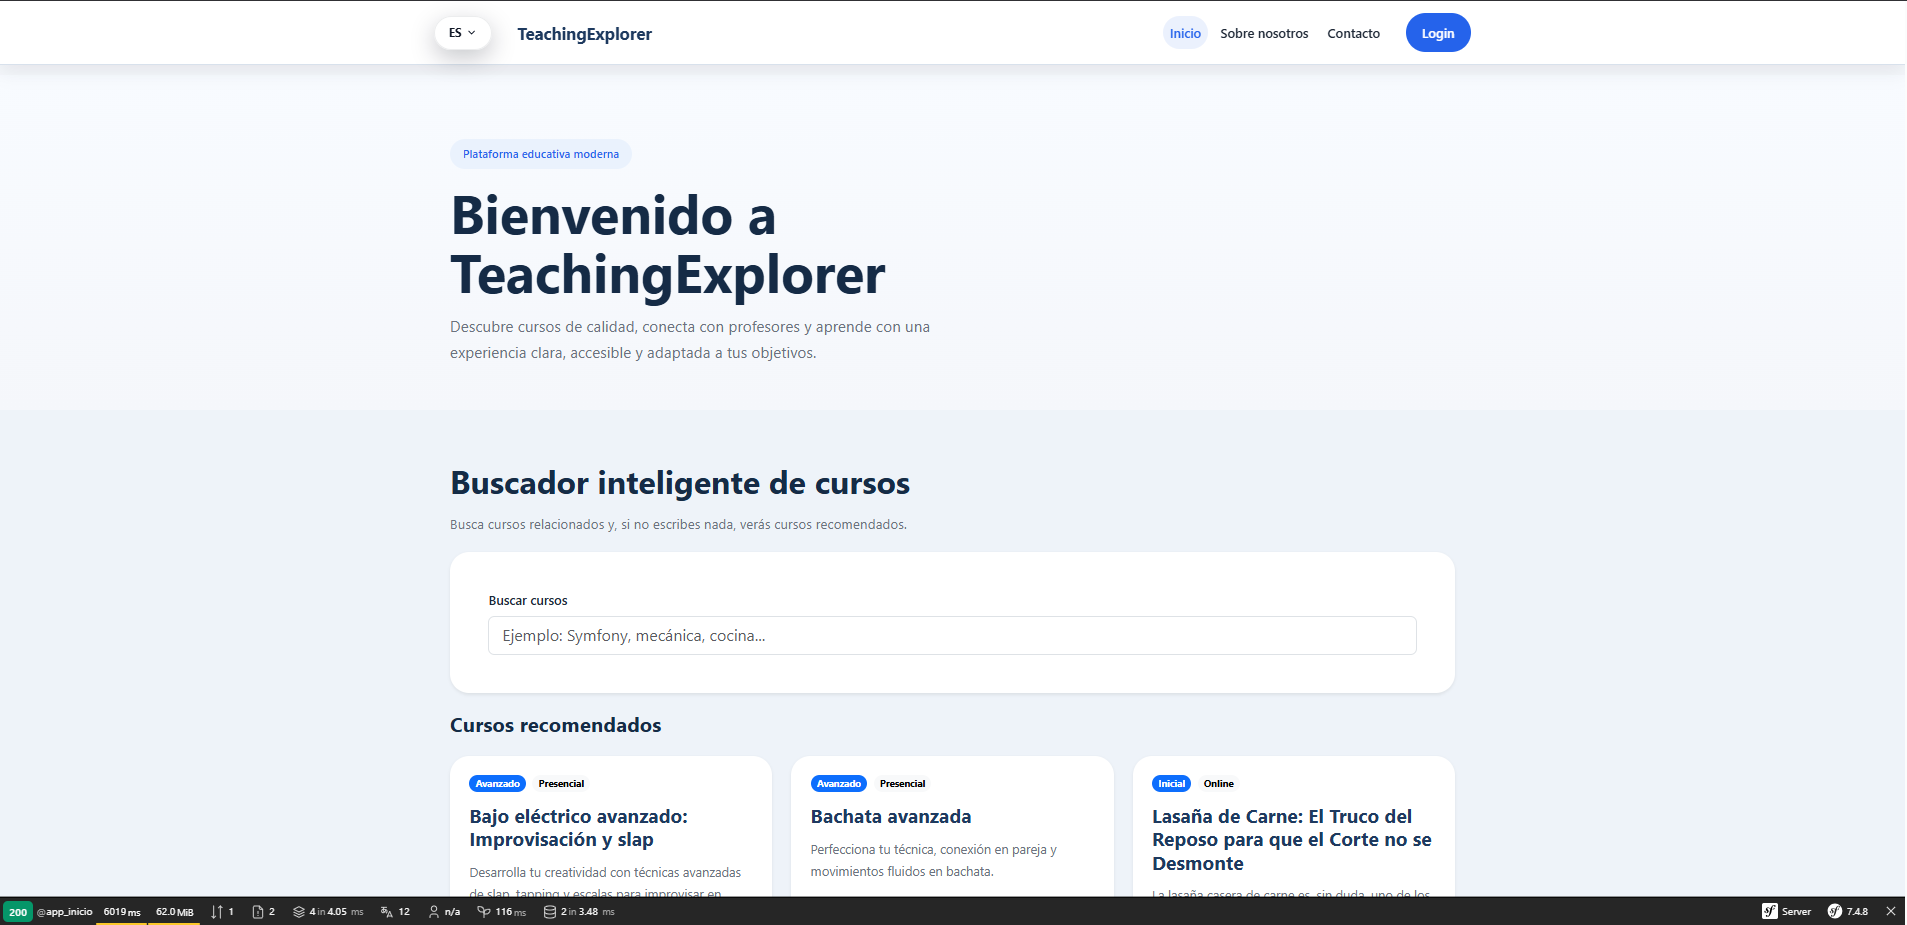
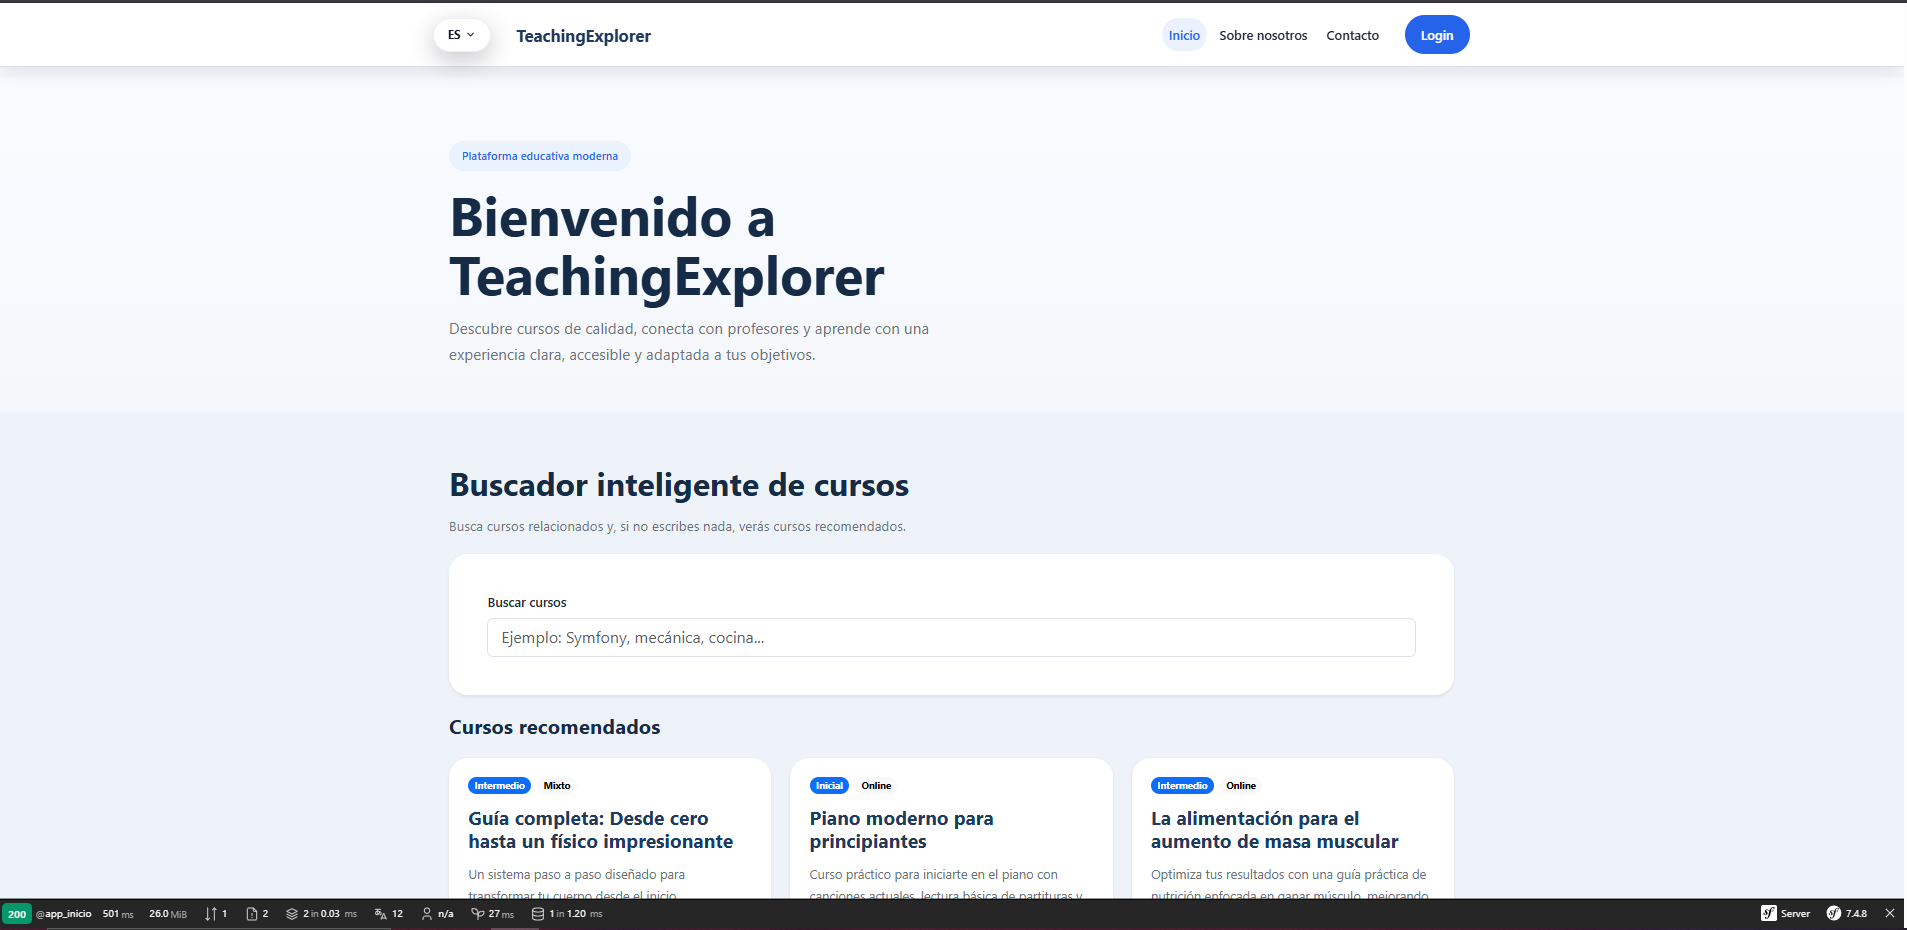
README completo

diff --git a/README.md b/README.md
@@ -357,7 +357,8 @@ Hay una carpeta llamada `images` en la raíz del repositorio donde se encuentran
 
 ### Página principal
 
-![Página principal](images/screenshot-inicio.png)
+![Página principal 1](images/screenshot-inicio.png)
+![Página principal 2](images/screenshot-inicio2.png)
 
 ### Mis cursos
 
@@ -373,7 +374,8 @@ Hay una carpeta llamada `images` en la raíz del repositorio donde se encuentran
 
 ### Login y registro
 
-![Login](images/screenshot-login.png)
+![Iniciar sesión](images/screenshot-login.png)
+![Crear cuenta](images/screenshot-login.png)
 
 ### Panel del profesor
 
@@ -381,7 +383,8 @@ Hay una carpeta llamada `images` en la raíz del repositorio donde se encuentran
 
 ### Panel de administración
 
-![Panel administración](images/screenshot-admin.png)
+![Panel administración profesores](images/screenshot-admin1.png)
+![Panel administración usuarios](images/screenshot-admin2.png)
 
 <p align="right">(<a href="#readme-top">volver arriba</a>)</p>
 
